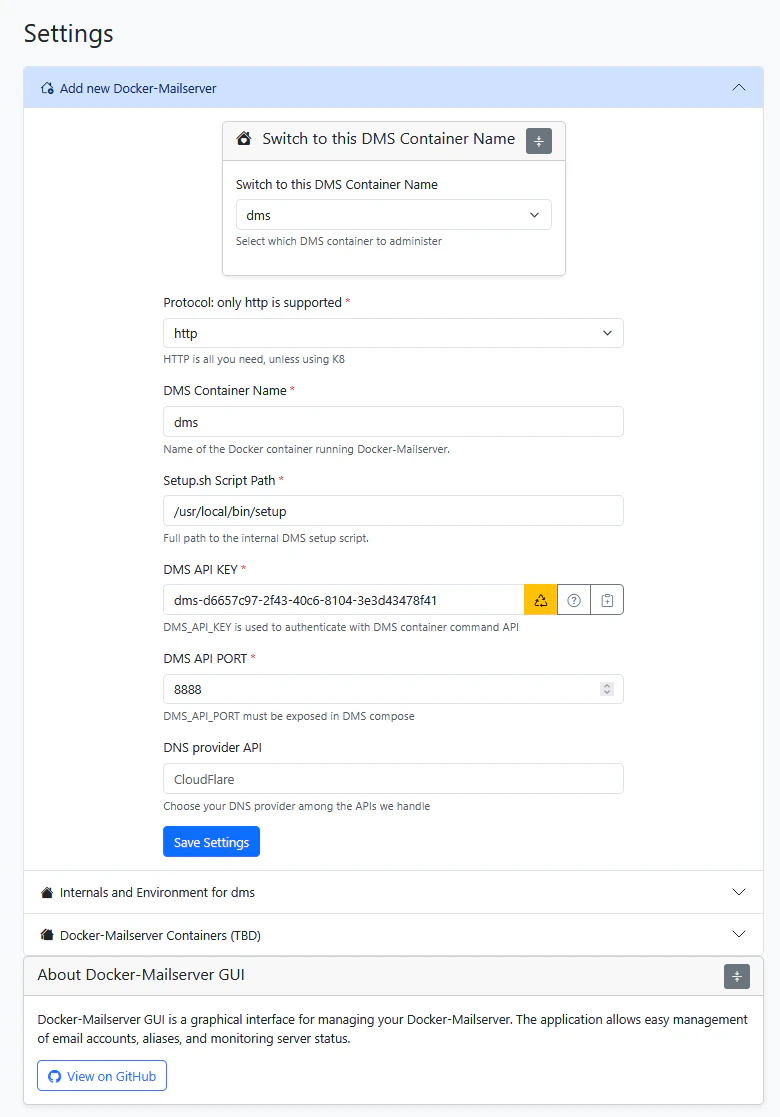
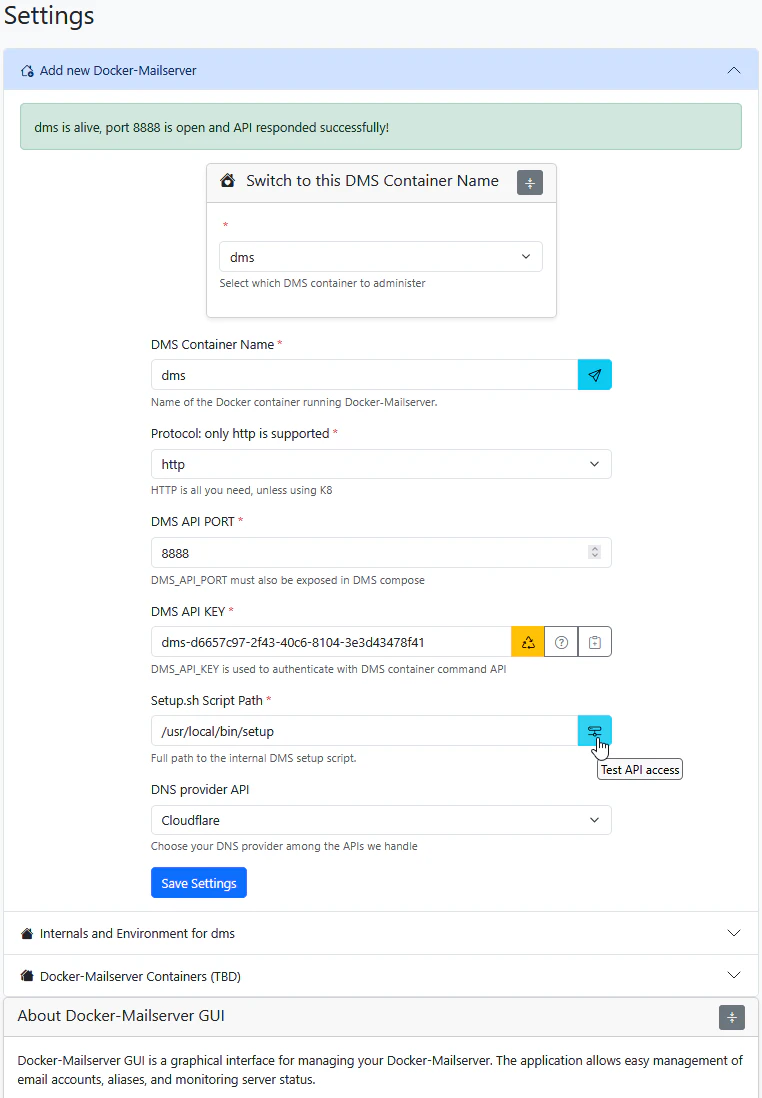
v1.4.4 ping and port tests * [x] 1.4.3 - translation: updated bunch of related messages * [x] 1.4.3 - frontend/Dashboard: updated the new bunch of status codes * [x] 1.4.3 - frontend/Settings: add API test to setupPath field entry * [x] 1.4.3 - frontend/Settings: add ping test to dms field entry * [

Changed region(s): [[0.0, 0.0, 0.9961, 0.9909], [0.7546, 0.6503, 0.9055, 0.7122], [0.7546, 0.3097, 0.815, 0.3716]]

diff --git a/CONTRIBUTING.md b/CONTRIBUTING.md
@@ -104,15 +104,16 @@ docker push audioscavenger/dms-gui --all-tags
 
 ## history:
 
-* [x] v1.4.3 - translation: updated bunch of related messages
-* [x] v1.4.3 - frontend/Dashboard: updated the new bunch of status codes
-* [x] v1.4.3 - frontend/Settings: add API test to setupPath field entry
-* [x] v1.4.3 - frontend/Settings: add ping test to dms field entry
-* [x] v1.4.3 - backend/settings: saveSettings correctly calls initAPI when all settings are saved properly and all valid
-* [x] v1.4.3 - backend/settings: getServerStatus now clearly shows the actual error: dns down, ping down, API key missing, not gen, mismatch or unset, etc
-* [x] v1.4.3 - backend/settings: transmit ping error to Dashboard
-* [x] v1.4.3 - backend: added checkPort test to dms
-* [x] v1.4.3 - backend: added ping test to dms
+* [x] v1.4.4 - release
+* [x] 1.4.3 - translation: updated bunch of related messages
+* [x] 1.4.3 - frontend/Dashboard: updated the new bunch of status codes
+* [x] 1.4.3 - frontend/Settings: add API test to setupPath field entry
+* [x] 1.4.3 - frontend/Settings: add ping test to dms field entry
+* [x] 1.4.3 - backend/settings: saveSettings correctly calls initAPI when all settings are saved properly and all valid
+* [x] 1.4.3 - backend/settings: getServerStatus now clearly shows the actual error: dns down, ping down, API key missing, not gen, mismatch or unset, etc
+* [x] 1.4.3 - backend/settings: transmit ping error to Dashboard
+* [x] 1.4.3 - backend: added checkPort test to dms
+* [x] 1.4.3 - backend: added ping test to dms
 * [x] v1.4.2 - release
 * [x] 1.4.1 - backend/account: bugfix in addLogin, roles must be stringified
 * [x] 1.4.1 - frontend/Profile: cannot update user's email or username anymore, or it works every other time, solution: disable this ability
